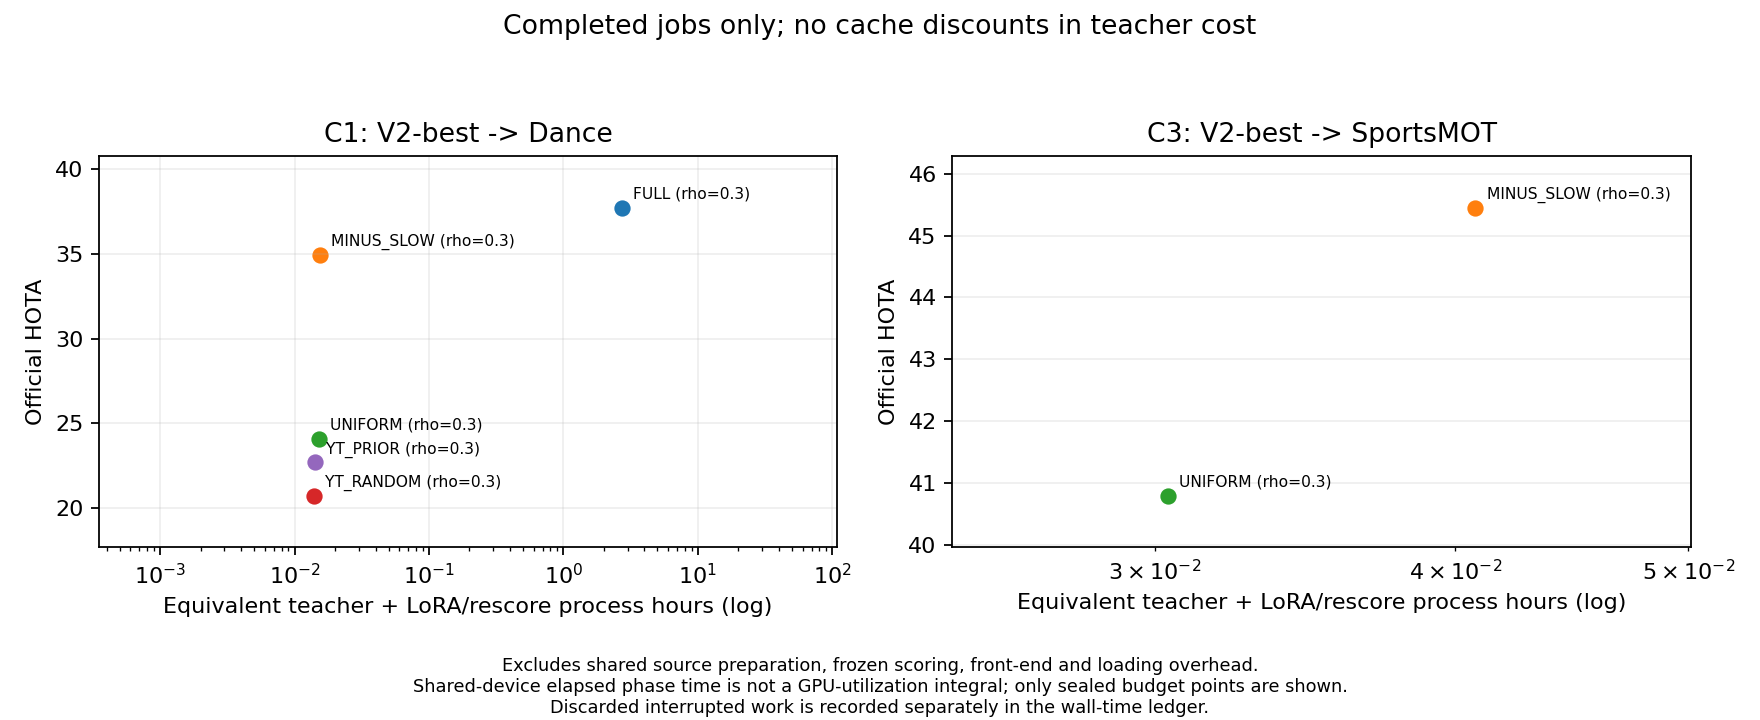
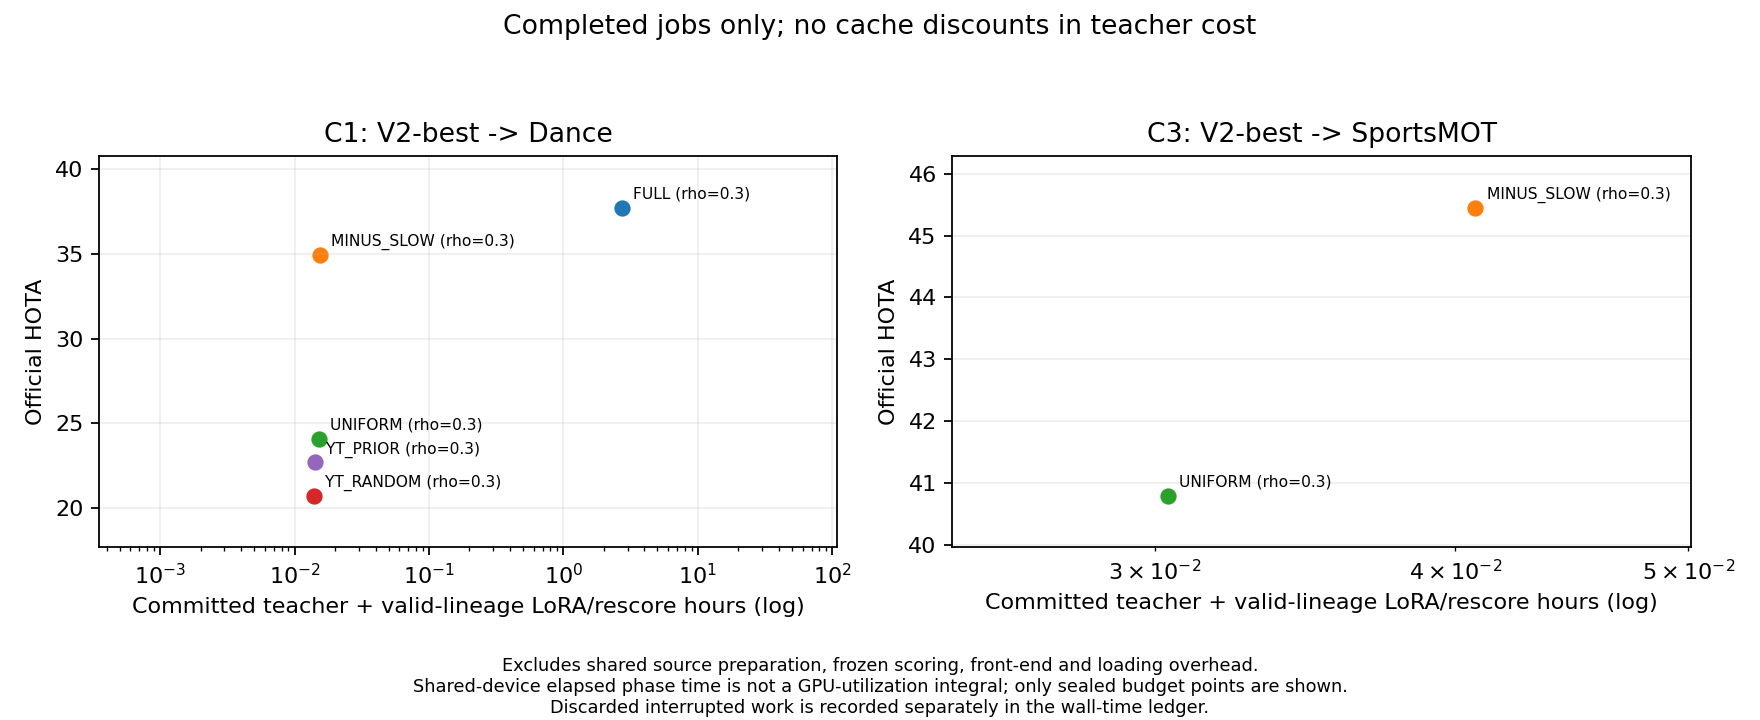
analysis: separate committed and interrupted compute and qualify the slow-loop attribution

Changed region(s): [[0.0625, 0.825, 0.4688, 0.8556], [0.5625, 0.825, 0.9375, 0.8556]]

diff --git a/scripts/report_active.py b/scripts/report_active.py
@@ -22,6 +22,25 @@ def write_table(path, rows):
         writer = csv.DictWriter(stream, fieldnames=fields,lineterminator='\n'); writer.writeheader(); writer.writerows(rows)
 
 
+def committed_teacher_equivalent_hours(receipts,teacher,method):
+    """One cost per committed question, separate from failed-session work."""
+    if method=='GATE_REASSIGN_REF':return teacher.get('equivalent_forward_seconds',0)/3600
+    if receipts and all('teacher_delta' in row for row in receipts):
+        return sum(row['teacher_delta']['equivalent_forward_seconds'] for row in receipts)/3600
+    # The budget baselines retain their exact ordered question-key lists.
+    # A repeated logical call stays repeated; only the physical cache is shared.
+    import sqlite3
+    keys=[key for row in receipts for key in row['question_keys']]
+    if len(keys)!=teacher['logical_calls']:raise ValueError('Incomplete committed teacher question list')
+    seconds=0.
+    with sqlite3.connect((RUN/'teacher/raw.sqlite').resolve().as_uri()+'?mode=ro',uri=True) as database:
+        for key in keys:
+            raw=database.execute('SELECT payload FROM outputs WHERE key=?',(key,)).fetchone()
+            if raw is None or raw[0] is None:raise ValueError('Missing sealed teacher answer '+key)
+            answer=json.loads(raw[0]);seconds+=answer['batch_forward_seconds']/answer['batch_size']
+    return seconds/3600
+
+
 def plot_adaptation_cost(rows, costs, public):
     """Use independent-equivalent teacher cost, not cache-dependent new calls."""
     import matplotlib
@@ -40,13 +59,14 @@ def plot_adaptation_cost(rows, costs, public):
         for mi,method in enumerate(methods):
             for row in (r for r in rows if r['pair']==pair and r['method']==method):
                 cost=lookup[pair,method,str(row['rho'])]
-                hours=sum(float(cost[k]) for k in ('teacher_equivalent_forward_GPU_hours','LoRA_GPU_hours','rescore_GPU_hours'))
+                hours=float(cost.get('committed_teacher_equivalent_forward_GPU_hours',cost['teacher_equivalent_forward_GPU_hours']))
+                hours+=sum(float(cost[k]) for k in ('LoRA_GPU_hours','rescore_GPU_hours'))
                 if hours<=0:continue
                 ax.scatter(hours,float(row['HOTA']),color=palette(mi),s=40)
                 ax.annotate(labels[method]+' (rho='+str(row['rho'])+')',
                     (hours,float(row['HOTA'])),xytext=(5,4),textcoords='offset points',fontsize=7)
         ax.set(xscale='log',title=pair+': '+PAIRS[pair][0]+' -> '+PAIRS[pair][1],
-            xlabel='Equivalent teacher + LoRA/rescore process hours (log)',ylabel='Official HOTA')
+            xlabel='Committed teacher + valid-lineage LoRA/rescore hours (log)',ylabel='Official HOTA')
         ax.margins(x=.7,y=.18);ax.grid(alpha=.2)
     for ax in axes.flat[len(pairs):]:ax.set_visible(False)
     fig.suptitle('Completed jobs only; no cache discounts in teacher cost')
@@ -302,6 +322,7 @@ def main():
             teacher_cache_hits=seal.get('teacher', {}).get('cache_hits', 0),
             teacher_forward_GPU_hours=result['teacher_forward_GPU_hours'],
             teacher_equivalent_forward_GPU_hours=result['teacher_equivalent_forward_GPU_hours'],
+            committed_teacher_equivalent_forward_GPU_hours=committed_teacher_equivalent_hours(receipts,seal.get('teacher',{}),method),
             LoRA_GPU_hours=result['LoRA_GPU_hours'], rescore_GPU_hours=result['rescore_GPU_hours'],
             assigned_worker_wall_hours=sum(r.get('wall_seconds', 0) for r in attempts)/3600,
             failed_worker_attempts=sum(r['status'] != 'RETURNED_SUCCESSFULLY' for r in attempts),
@@ -402,6 +423,8 @@ def main():
         '不是GPU利用率积分，不能与同驻教师进程wall重复相加。源Head训练、前端与特征预计算另见阶段A。\n\n'
         '外部中断单独记录：worker wall如只有观测区间则标upper bound；未收尾教师会话的原始缓存/已完成视频可恢复开销与未知缓存请求分别注明。'
         'LoRA/重打分相位求和以最终有效checkpoint路径为准，未完成视频的浪费另见中断记录，不能默认为零或冒充精确计时。\n\n'
+        'teacher_equivalent_forward_GPU_hours保留含失败重试的会话口径；新增committed_teacher_equivalent_forward_GPU_hours只计最终有效问题一次，'
+        '用于计算量图，并与有效checkpoint路径的LoRA/重打分配对。全部真实新增forward及重试仍在原计时/worker账目中，不从实际支出抹去。\n\n'
         'adaptation_cost_vs_HOTA.png另画独立等价教师forward加LoRA/重打分的相位耗时，避免把同一教师预算等同总计算预算；'
         '它不包含共享源端/冻结打分/前端准备和载入开销，不能解释成完整系统总成本或GPU利用率积分。\n\n'
         '行为见behavior_round/video.csv。置信不等于正确；分别标记先验即高置信、从未问过但高置信，以及教师/最终新增确认。'
